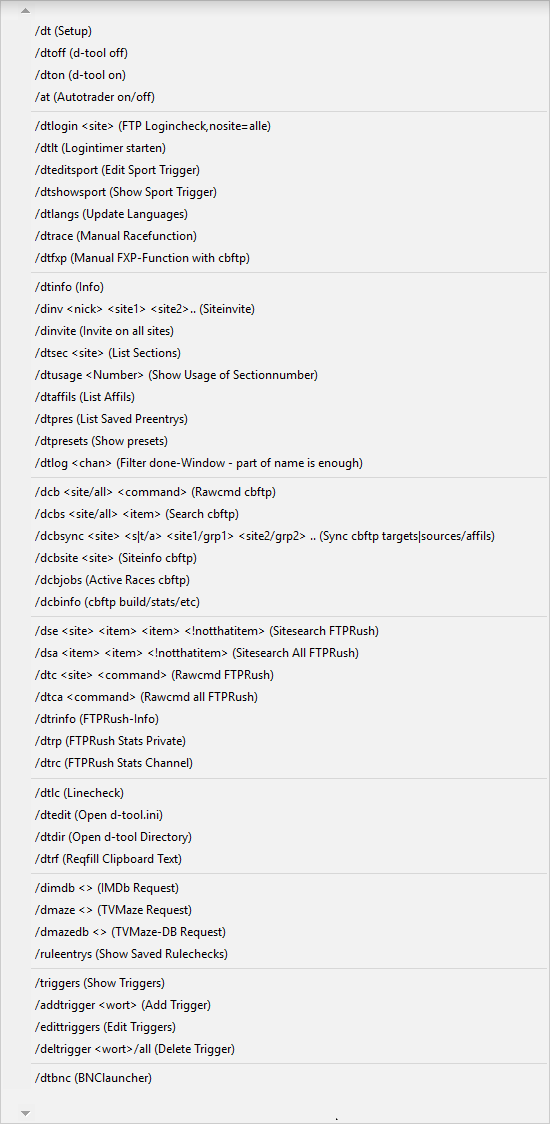
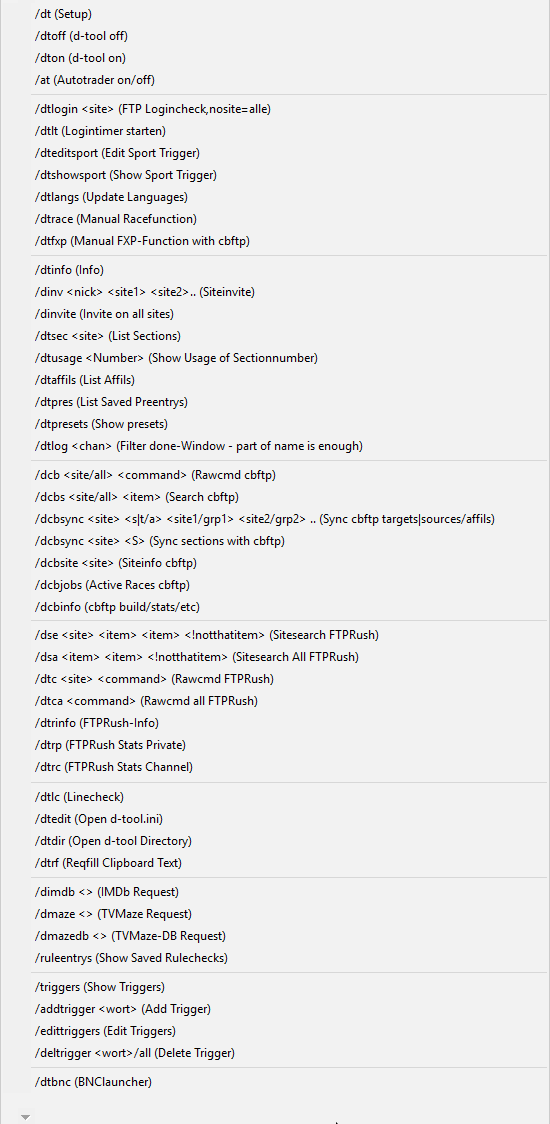
v9.3

Changed region(s): [[0.0309, 0.0, 1.0, 0.9653], [0.0, 0.9964, 1.0, 1.0]]

diff --git a/Commands.html b/Commands.html
@@ -154,7 +154,8 @@ zB. Sitenchan, dann wird  angezeigt was man auf einer bestimmten Site angestellt
         <strong>/dcbs</strong> <strong>&lt;site/all&gt; &lt;item&gt;</strong> - Search(cbftp)<br />
         Man kann das &quot;alle&quot; weglassen, sofern nach einem Releasenamen gesucht wird.<br />
         Wenn man nach einzelnen Wörtern suchen möchte, muss man immer &quot;all&quot; angeben um auf allen Sites zu suchen.<br />
-        <strong>/dcbsync  &lt;site&gt; &lt;s/t&gt; &lt;site1&gt; &lt;site2&gt;</strong> - synct Sources/Targets mit cbftp      <br />
+        <strong>/dcbsync  &lt;site&gt; &lt;s|t/a&gt; &lt;site1/grp1&gt; &lt;site2/grp2&gt;...</strong> - synct Sources|Targets oder Affils mit cbftp      <br />
+        <strong>/dcbsync  &lt;site&gt; S</strong> - synct die Sektionen mit cbftp        <br />
         <strong>/dcbsite &lt;site&gt;</strong> - Siteinfo (cbftp - zeigt source und target sites)<br />
         <strong>/dcbjobs</strong> - Aktive Races(cbftp)<br />
         <strong>/dcbinfo</strong> - cbftp Infos (cbftp)        <br />

diff --git a/index.html b/index.html
@@ -143,7 +143,7 @@ body {
       <span class="KleinerText"><a href="https://d--tool-github-io.translate.goog/index.html?_x_tr_sl=de&amp;_x_tr_tl=en&amp;_x_tr_hl=de&amp;_x_tr_pto=wapp" class="helpdesk1"><span class="link-nodecoration-grey-10px"><br />
         <br />
         translate me</span></a></span></p></td>
-    <td width="228" valign="top"><p class="mini_text"><a href="Latest.html" class="link-normal">dt.v.9.2.2</a><br />
+    <td width="228" valign="top"><p class="mini_text"><a href="Latest.html" class="link-normal">dt.v.9.3</a><br />
         <br />
         <br />
       </p></td>
